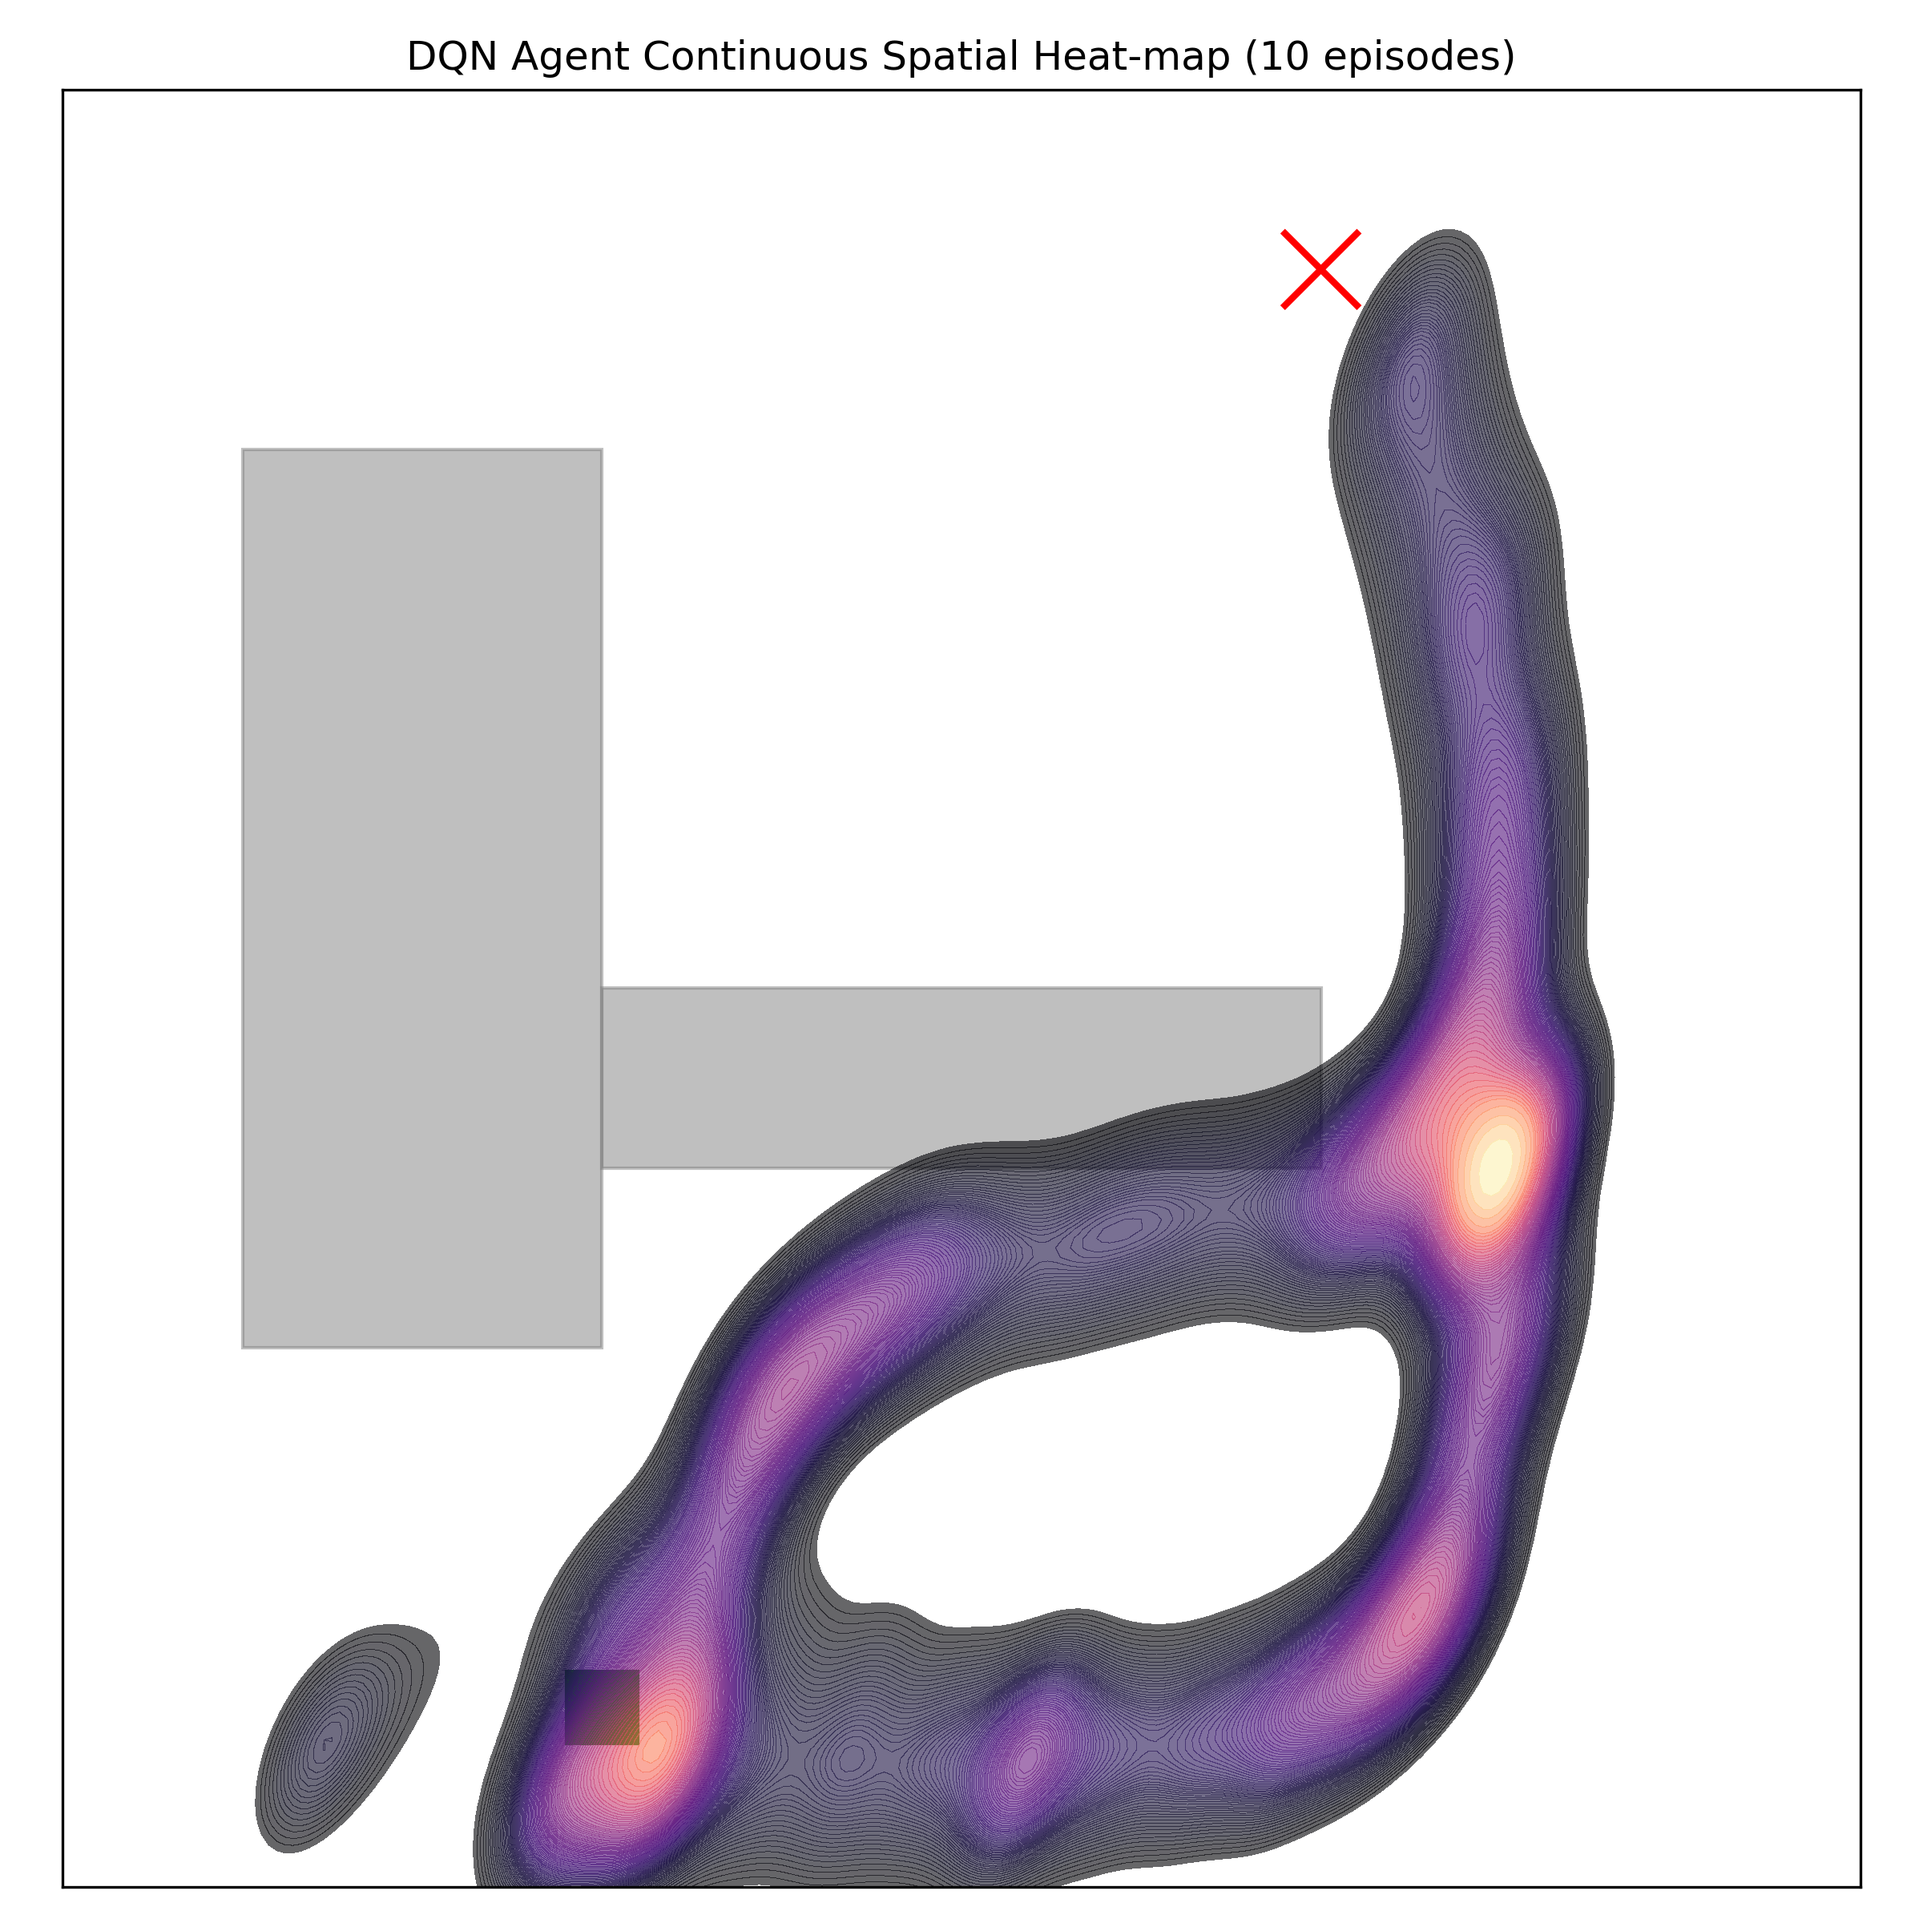
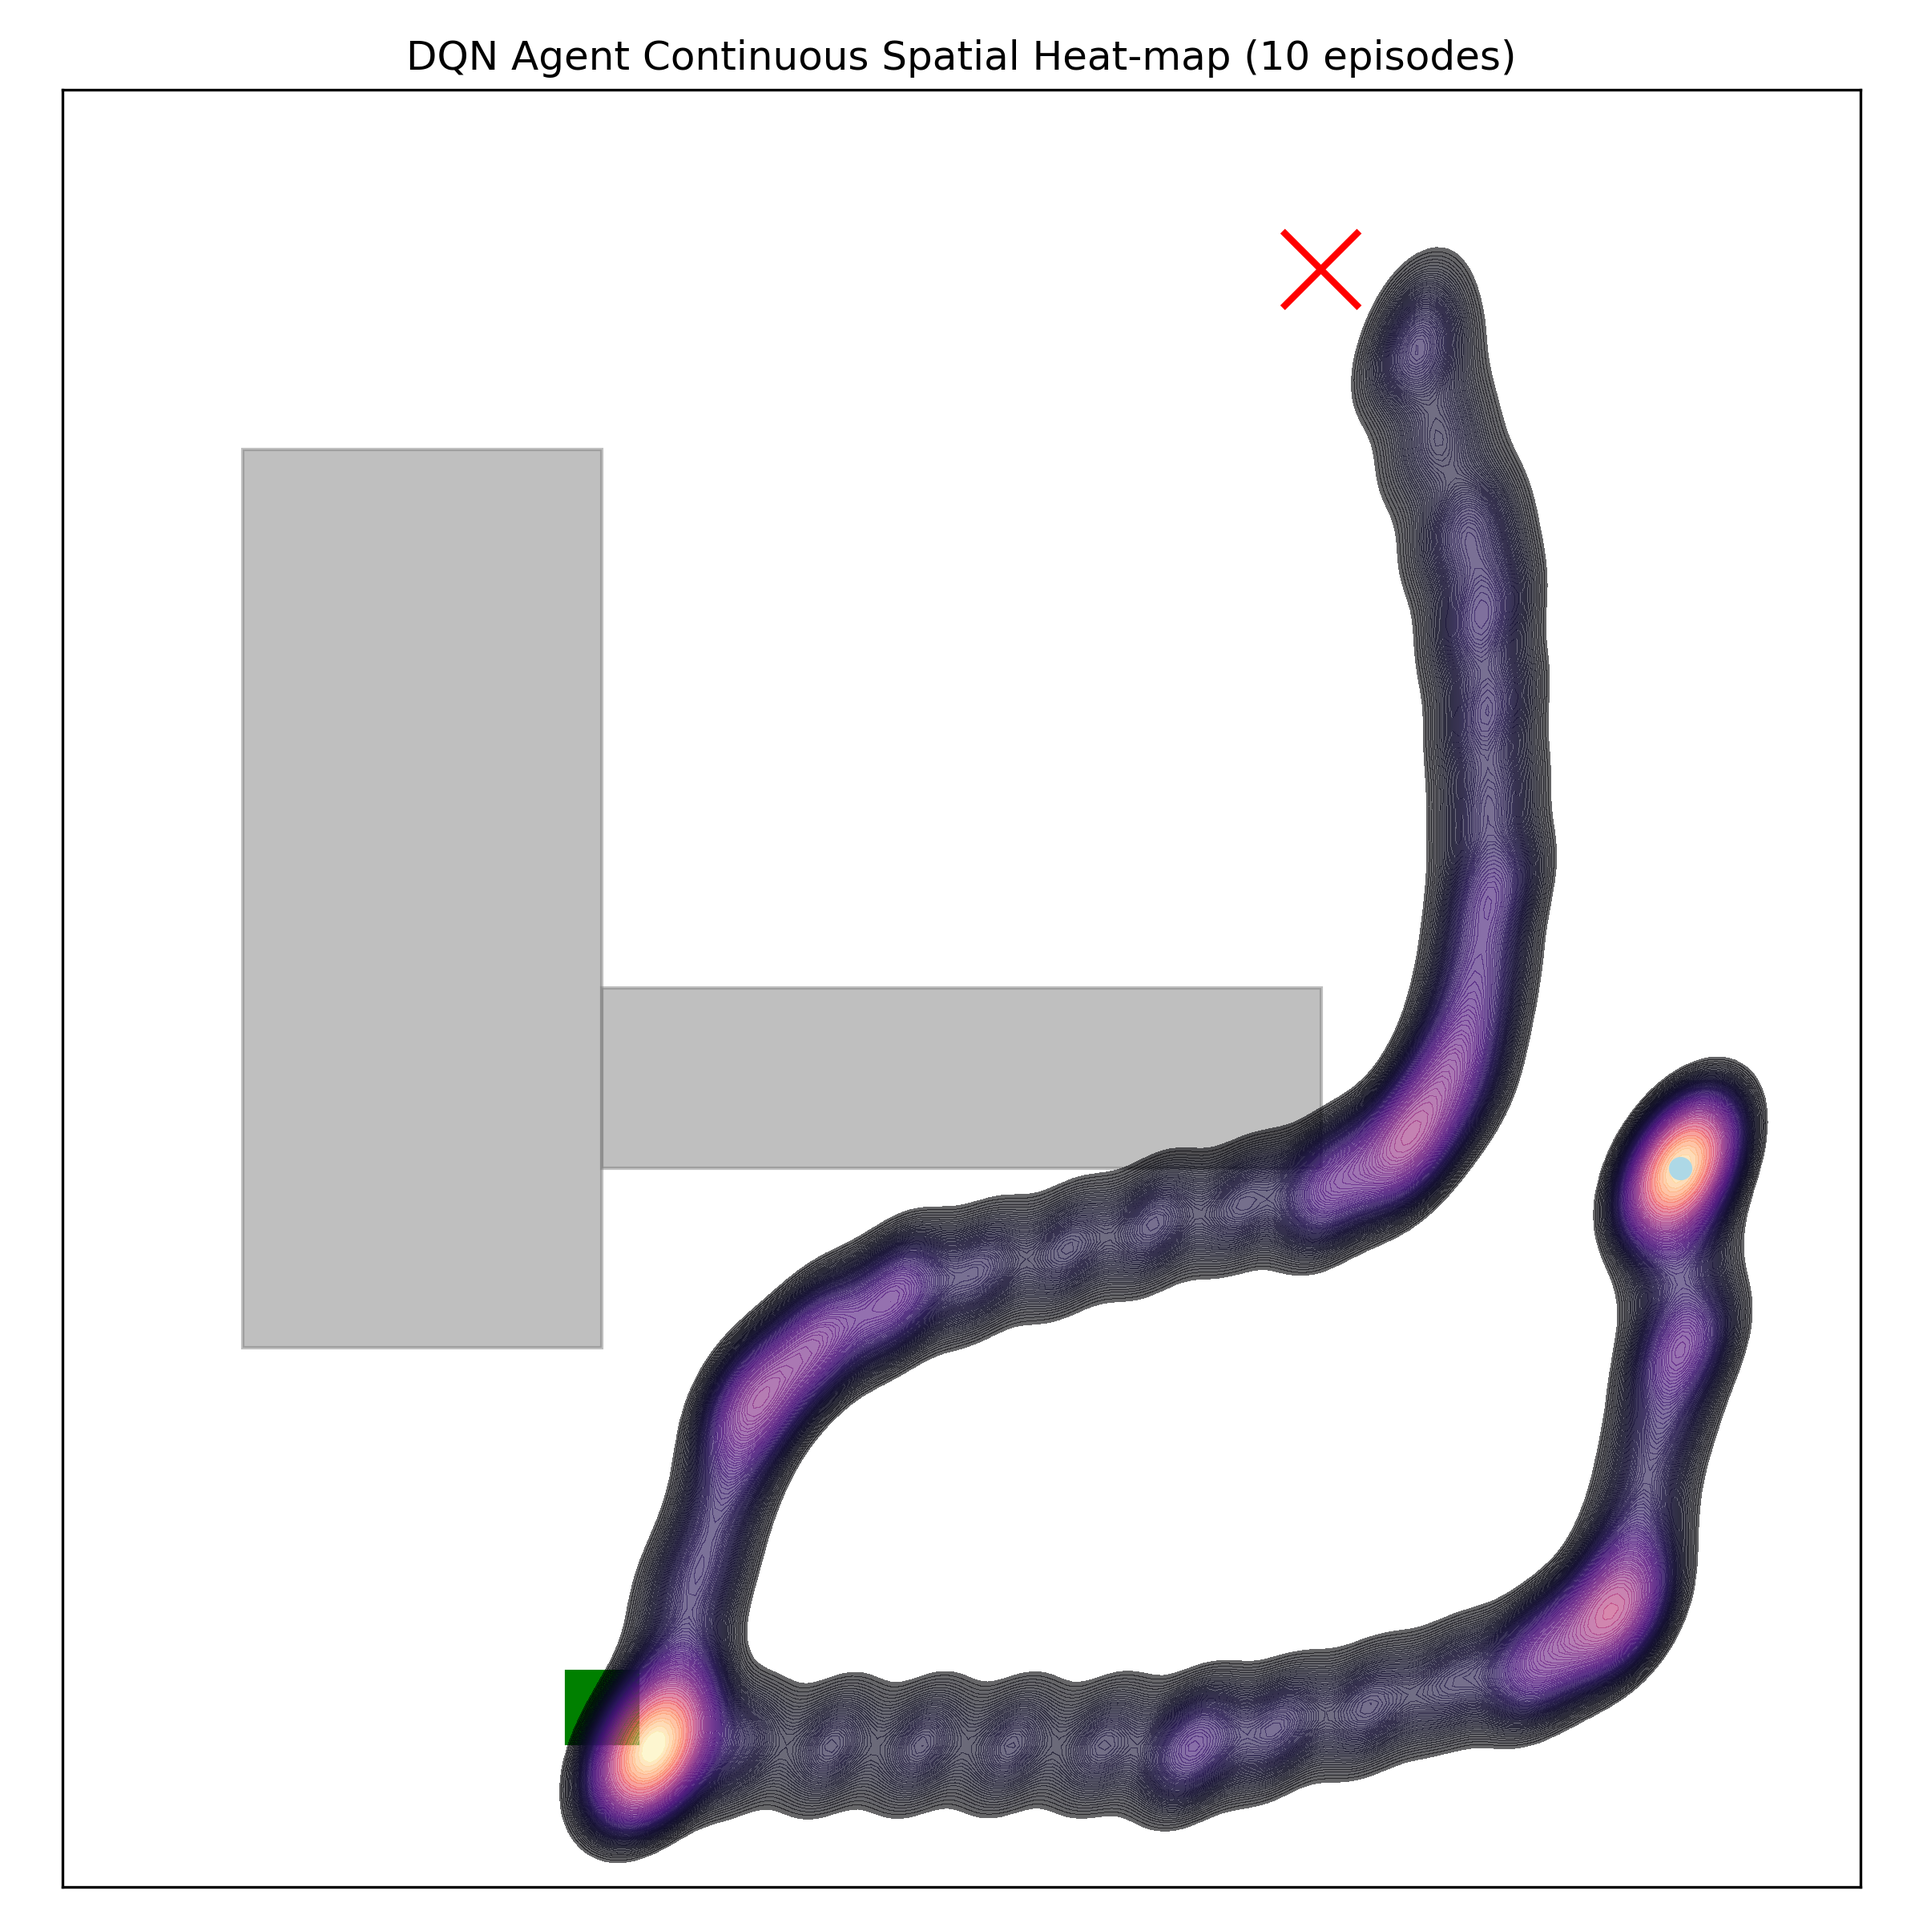
DQN spatial heatmap perfect

Changed region(s): [[0.125, 0.125, 0.9375, 1.0]]

diff --git a/dqn_spatial_heatmap.py b/dqn_spatial_heatmap.py
@@ -16,7 +16,7 @@ from maps import MAIL_DELIVERY_MAPS
 # --------------------------------------------------------------------------- #
 # Configuration constants
 # --------------------------------------------------------------------------- #
-FIXED_START_POSITION = (8.0, 4.0)   # depot coordinates
+FIXED_START_POSITION = (9.0, 4.0)   # depot coordinates
 FIXED_START_THETA = 0
 SCALE                 = 1.0
 
@@ -42,6 +42,16 @@ def render_map(ax, map_config):
                             depot_y - 0.2 * SCALE),
                            0.4 * SCALE, 0.4 * SCALE,
                            color="green"))
+    
+    # mark the fixed start position with a small blue circle
+    start_x, start_y = FIXED_START_POSITION
+    ax.plot(start_x, start_y,
+            marker='o',
+            markersize=6,     # smaller than depot square
+            color='lightblue',
+            # zorder=10,        # ensure it sits on top
+            label='Start')
+
     # Delivery point (red X)
     deliv_x, deliv_y = map_config["delivery"]
     off = 0.2 * SCALE
@@ -142,7 +152,7 @@ def evaluate_and_spatial_heatmap(model_path: str,
                     n_levels=100,
                     bw_adjust=bandwidth,
                     ax=ax)
-
+        
     ax.set_xlabel(""); ax.set_ylabel("")
     ax.set_title(f"DQN Agent Continuous Spatial Heat-map ({trials} episodes)")
     plt.tight_layout()
